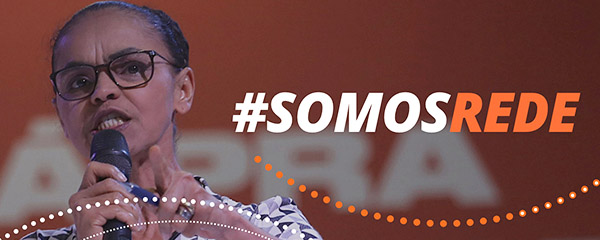
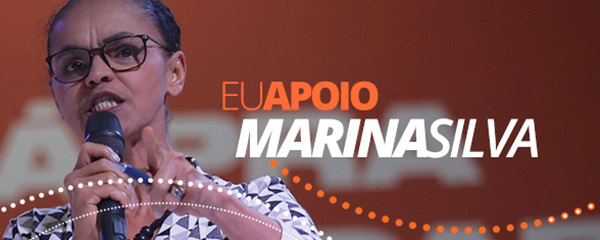
Update email image

diff --git a/public/template-emails/captured.html b/public/template-emails/captured.html
@@ -14,7 +14,7 @@
                               </td>
                            </tr>
                            <tr>
-                            <td colspan="2"><a href="https://doemarina.com.br/" target="_blank"><img src="https://doemarina.com.br/template-emails/header-email.jpg" class="x_deviceWidth" style="border-radius:7px 7px 0 0; float:left"></a></td>
+                            <td colspan="2"><a href="https://doemarina.com.br/" target="_blank"><img src="https://doemarina.com.br/template-emails/header-email.jpg?v=2" class="x_deviceWidth" style="border-radius:7px 7px 0 0; float:left"></a></td>
                            </tr>
                            <tr>
                               <td bgcolor="#ffffff" colspan="2" style="background-color:rgb(255,255,255); border-radius:0 0 7px 7px; font-family:'Montserrat',Arial,sans-serif; font-size:13px; font-weight:normal; line-height:24px; padding:30px 0; text-align:center; vertical-align:top">

diff --git a/public/template-emails/decred.html b/public/template-emails/decred.html
@@ -14,7 +14,7 @@
                               </td>
                            </tr>
                            <tr>
-                            <td colspan="2"><a href="https://doemarina.com.br/" target="_blank"><img src="https://doemarina.com.br/template-emails/header-email.jpg" class="x_deviceWidth" style="border-radius:7px 7px 0 0; float:left"></a></td>
+                            <td colspan="2"><a href="https://doemarina.com.br/" target="_blank"><img src="https://doemarina.com.br/template-emails/header-email.jpg?v=2" class="x_deviceWidth" style="border-radius:7px 7px 0 0; float:left"></a></td>
                            </tr>
                            <tr>
                               <td bgcolor="#ffffff" colspan="2" style="background-color:rgb(255,255,255); border-radius:0 0 7px 7px; font-family:'Montserrat',Arial,sans-serif; font-size:13px; font-weight:normal; line-height:24px; padding:30px 0; text-align:center; vertical-align:top">

diff --git a/public/template-emails/boleto_created.html b/public/template-emails/boleto_created.html
@@ -20,7 +20,7 @@
                                 <tr>
                                     <td colspan="2">
                                         <a href="https://doemarina.com.br/" target="_blank">
-                                            <img src="https://doemarina.com.br/template-emails/header-email.jpg" class="x_deviceWidth" style="border-radius:7px 7px 0 0; float:left">
+                                            <img src="https://doemarina.com.br/template-emails/header-email.jpg?v=2" class="x_deviceWidth" style="border-radius:7px 7px 0 0; float:left">
                                         </a>
                                     </td>
                                 </tr>

diff --git a/public/template-emails/boleto_expired.html b/public/template-emails/boleto_expired.html
@@ -20,7 +20,7 @@
                                 <tr>
                                     <td colspan="2">
                                         <a href="https://doemarina.com.br/" target="_blank">
-                                            <img src="https://doemarina.com.br/template-emails/header-email.jpg" class="x_deviceWidth" style="border-radius:7px 7px 0 0; float:left">
+                                            <img src="https://doemarina.com.br/template-emails/header-email.jpg?v=2" class="x_deviceWidth" style="border-radius:7px 7px 0 0; float:left">
                                         </a>
                                     </td>
                                 </tr>

diff --git a/public/template-emails/cc_refused.html b/public/template-emails/cc_refused.html
@@ -20,7 +20,7 @@
                                 <tr>
                                     <td colspan="2">
                                         <a href="https://doemarina.com.br/" target="_blank">
-                                            <img src="https://doemarina.com.br/template-emails/header-email.jpg" class="x_deviceWidth"
+                                            <img src="https://doemarina.com.br/template-emails/header-email.jpg?v=2" class="x_deviceWidth"
                                                 style="border-radius:7px 7px 0 0; float:left">
                                         </a>
                                     </td>
